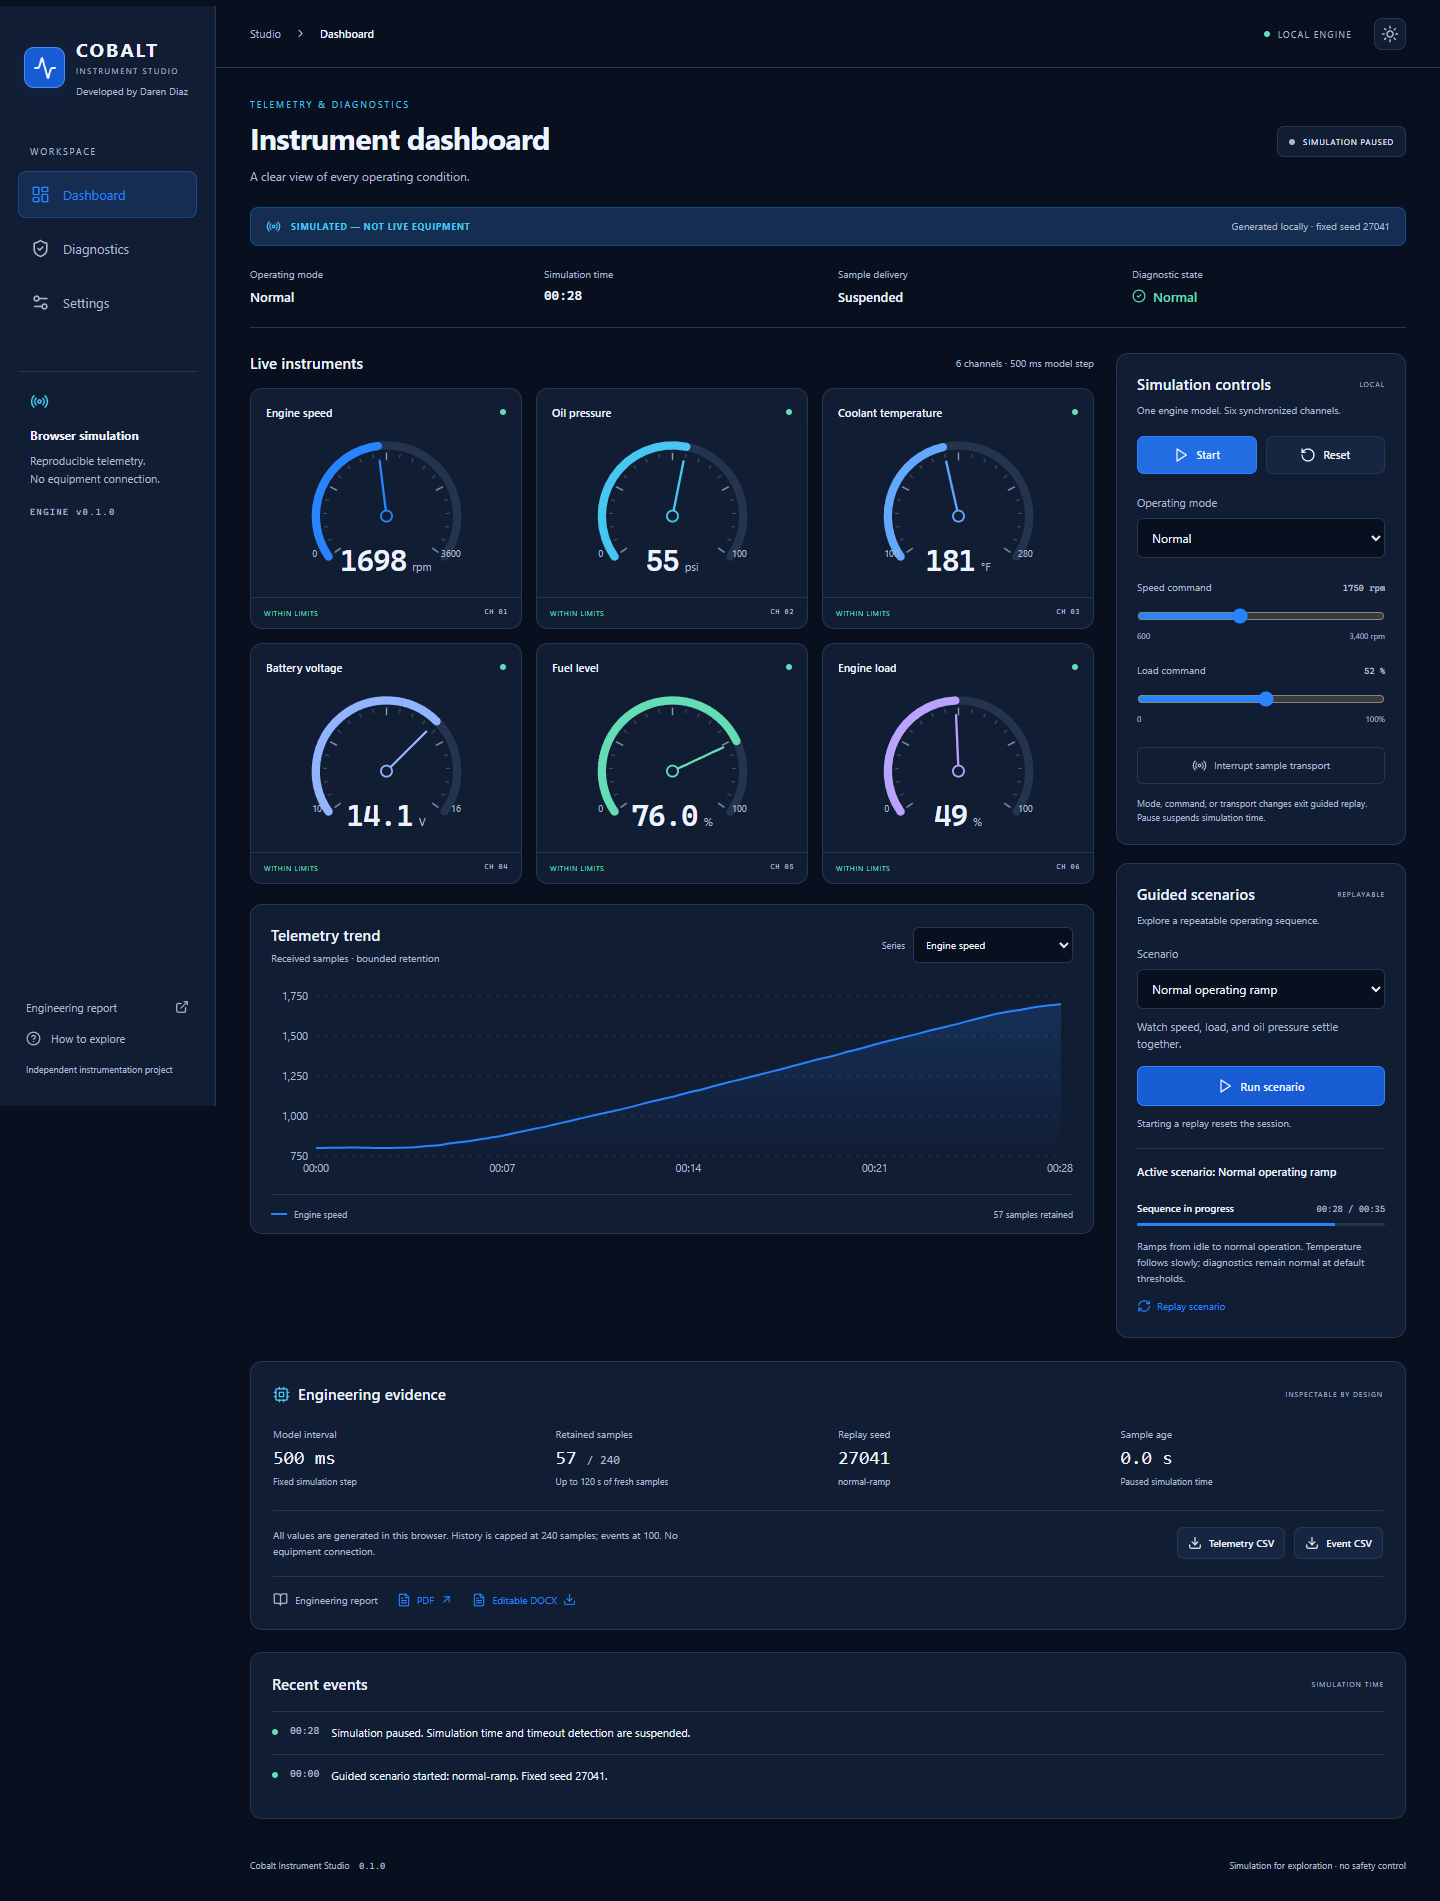
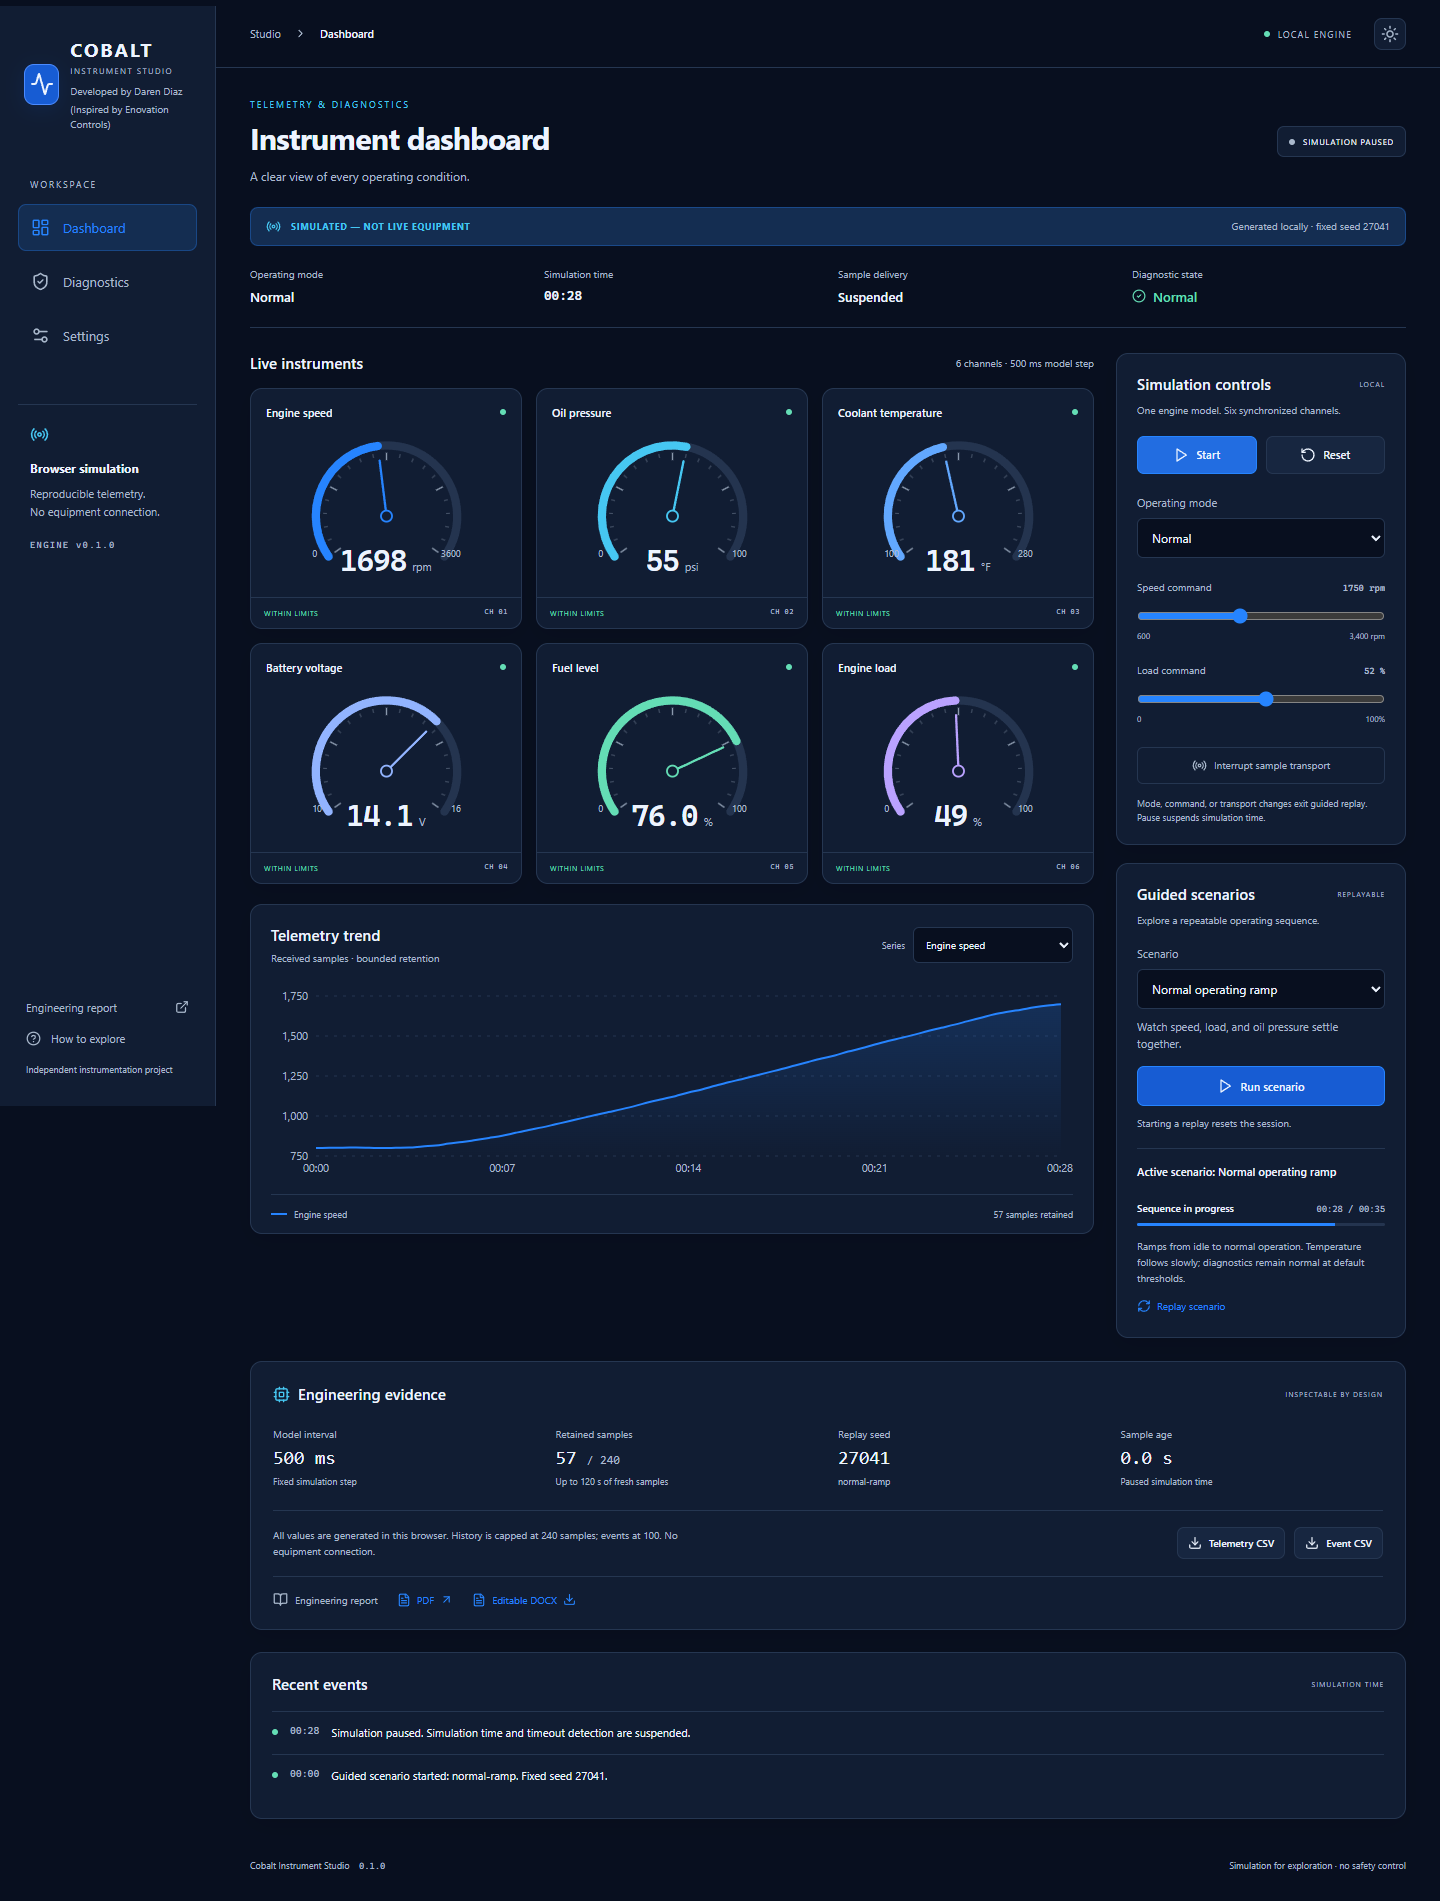
Add inspiration credit across application views

Changed region(s): [[0.0, 0.0, 0.1562, 0.1862], [0.0, 0.2173, 0.0938, 0.2793]]

diff --git a/src/App.tsx b/src/App.tsx
@@ -91,6 +91,9 @@ export function App() {
             <strong>COBALT</strong>
             <small>INSTRUMENT STUDIO</small>
             <span className="developer-credit">Developed by Daren Diaz</span>
+            <span className="inspiration-credit">
+              (Inspired by Enovation Controls)
+            </span>
           </span>
         </div>
         <div className="workspace-label">WORKSPACE</div>

diff --git a/tests/e2e/studio.spec.ts b/tests/e2e/studio.spec.ts
@@ -281,6 +281,9 @@ test("desktop and mobile remain usable and produce authentic screenshots", async
   expect(
     await page.evaluate(() => document.documentElement.scrollWidth),
   ).toBeLessThanOrEqual(390);
+  await page
+    .getByRole("heading", { name: "System diagnostics", exact: true })
+    .click();
   await page.screenshot({
     path: "docs/assets/diagnostics-mobile.png",
     fullPage: true,

diff --git a/src/styles.css b/src/styles.css
@@ -184,12 +184,16 @@ p {
   display: block;
   margin-top: 3px;
 }
-.developer-credit {
+.developer-credit,
+.inspiration-credit {
   display: block;
   margin-top: 8px;
   color: var(--muted);
   font-size: 10px;
   line-height: 1.5;
+}
+.inspiration-credit {
+  margin-top: 3px;
 }
 .workspace-label {
   font-size: 9px;

diff --git a/CHANGELOG.md b/CHANGELOG.md
@@ -4,6 +4,7 @@ _Developed by Daren Diaz_
 
 ## Unreleased
 
+- Added inspiration credit beneath the developer credit across all application views.
 - Replaced guided scenario cards with a compact dropdown, descriptions, and an explicit Run scenario action; retained active replay progress and replay controls.
 - Further interface improvements remain planned work.
 
